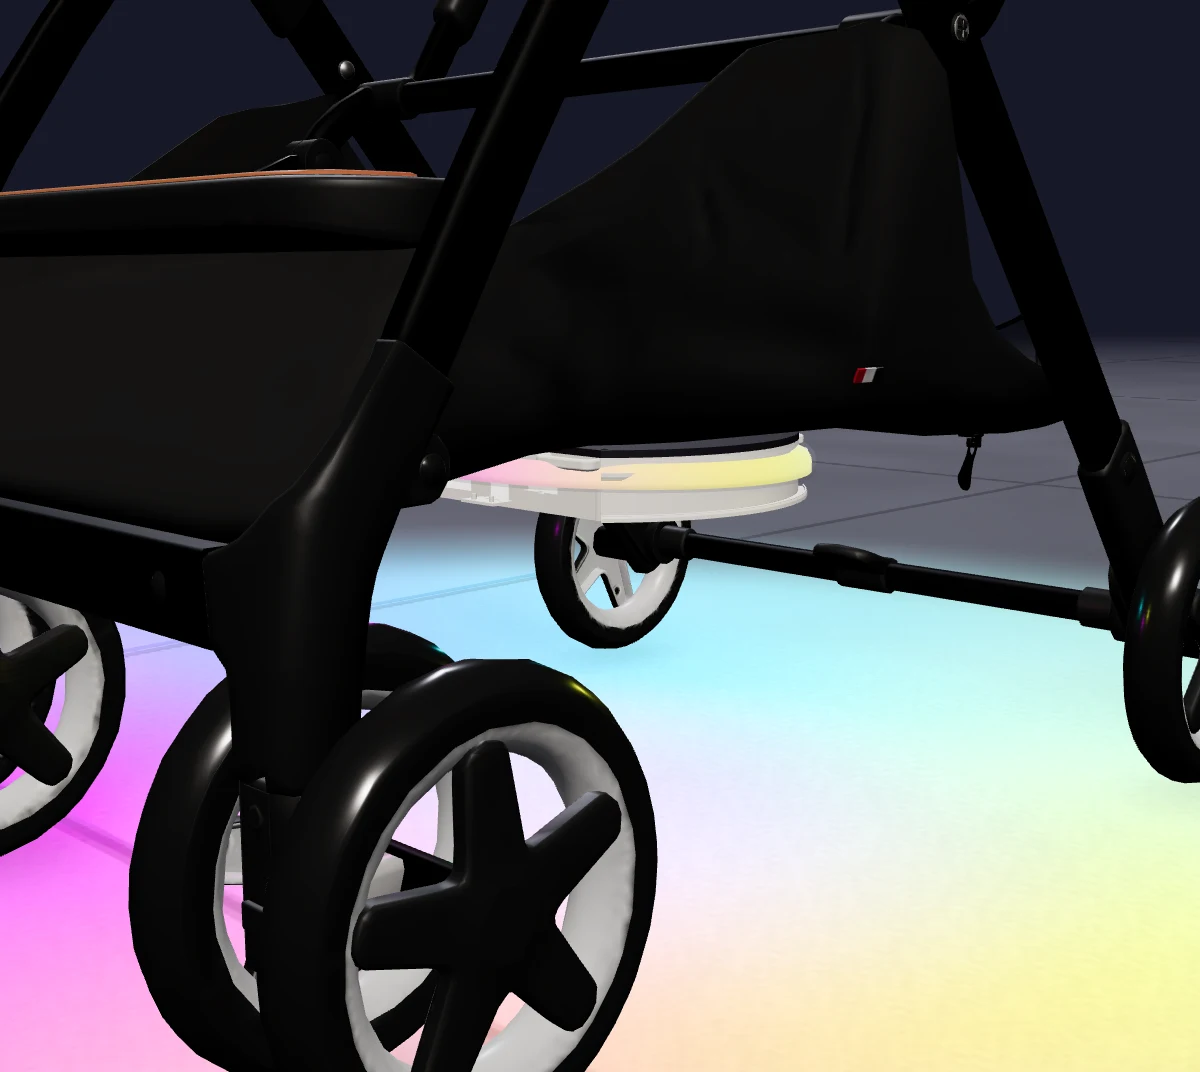
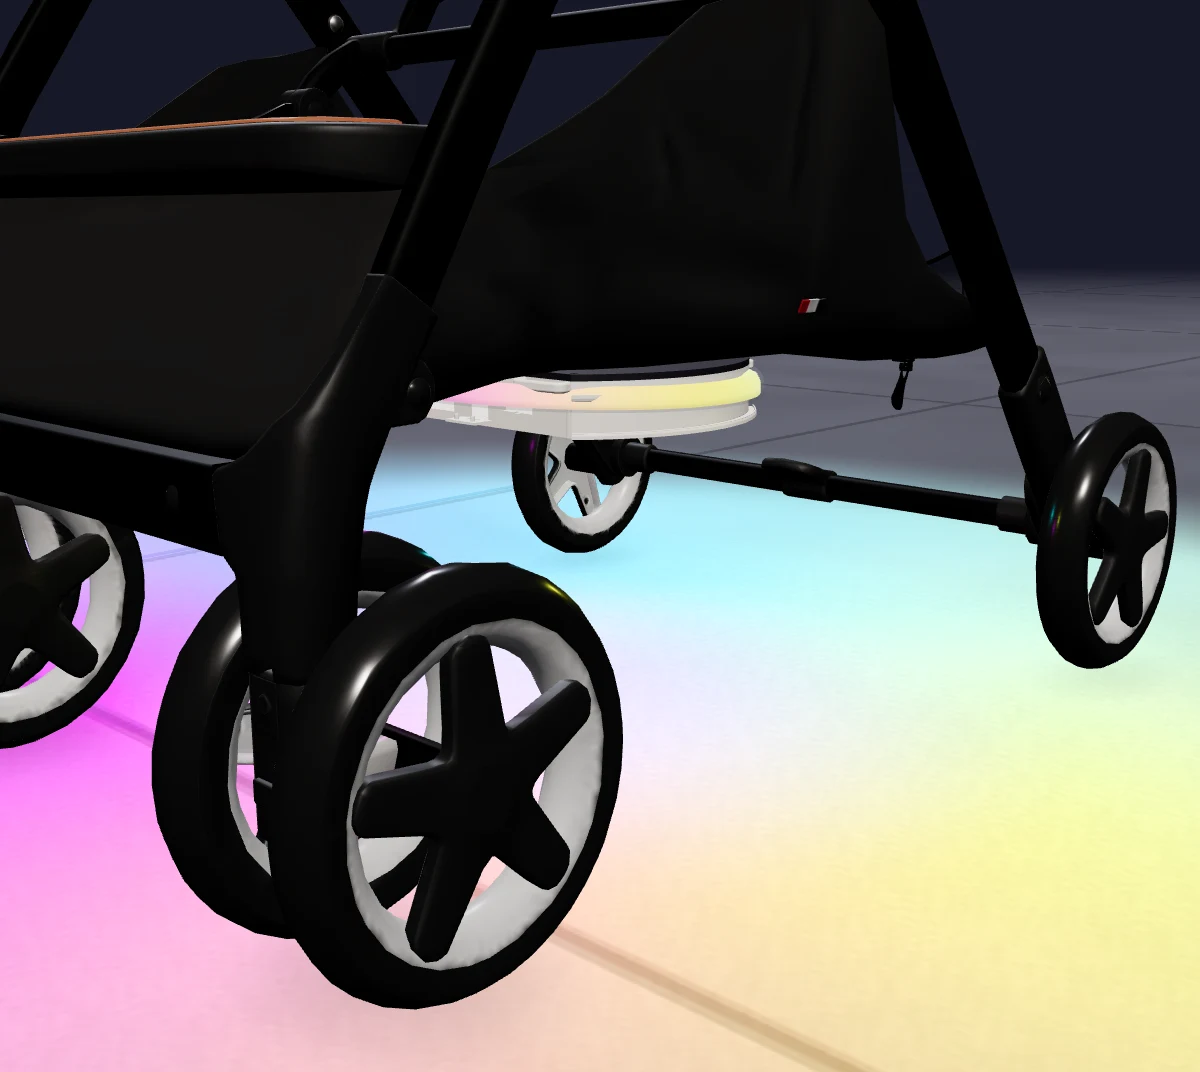
Refine hero wheel breakout framing
Expand the hero render beyond an inset frame, move the controls below the breakout area, and reframe regenerated posters so the wheels remain visible.

diff --git a/src/app/globals.css b/src/app/globals.css
@@ -1,14 +1,16 @@
 @import "tailwindcss";
 
-.interactive-hero { width: 100%; border: 1px solid #ded7ed; border-radius: 2rem; background: #eeeafd; overflow: hidden; box-shadow: 0 24px 70px #5a0fea0c; }
-.interactive-hero-stage { position: relative; aspect-ratio: 1.12; background: #171827; }
+.interactive-hero { --hero-breakout-x: clamp(1.25rem, 5vw, 1.75rem); --hero-breakout-y: clamp(1.1rem, 4.5vw, 1.55rem); --hero-frame-bottom: clamp(2.25rem, 8vw, 2.75rem); position: relative; width: 100%; border: 1px solid #ded7ed; border-radius: 2rem; background: #eeeafd; overflow: visible; box-shadow: 0 24px 70px #5a0fea0c; }
+.interactive-hero-stage { position: relative; z-index: 1; aspect-ratio: 1.12; }
 .interactive-hero-stage, .interactive-hero-stage * { -webkit-user-select: none; user-select: none; -webkit-touch-callout: none; -webkit-tap-highlight-color: transparent; }
+.interactive-hero-render { position: absolute; inset: 0 calc(-1 * var(--hero-breakout-x)) calc(-1 * var(--hero-breakout-y)) 0; overflow: hidden; border-radius: 2rem 2rem 1.5rem .5rem; background: #171827; }
+.interactive-hero-frame { position: absolute; inset: -1px -1px var(--hero-frame-bottom); z-index: 2; border: 1px solid #ded7ed; border-radius: 2rem; pointer-events: none; }
 .interactive-hero-canvas { position: absolute; inset: 0; opacity: 0; pointer-events: none; transition: opacity 650ms ease; }
 .interactive-hero-canvas.is-ready { opacity: 1; cursor: grab; pointer-events: auto; }
 .interactive-hero-canvas.is-ready:active { cursor: grabbing; }
 .interactive-hero-canvas canvas { display: block; width: 100%; height: 100%; }
-.interactive-hero-badge { position: absolute; top: 1.25rem; left: 1.4rem; font-size: .65rem; font-weight: 700; letter-spacing: .09em; text-transform: uppercase; color: #e2d8f6; pointer-events: none; }
-.hero-mode-controls { display: flex; flex-wrap: wrap; justify-content: center; gap: .25rem; padding: .5rem .35rem; }
+.interactive-hero-badge { position: absolute; top: 1.25rem; left: 1.4rem; z-index: 3; font-size: .65rem; font-weight: 700; letter-spacing: .09em; text-transform: uppercase; color: #e2d8f6; pointer-events: none; }
+.hero-mode-controls { position: relative; z-index: 2; display: flex; flex-wrap: wrap; justify-content: center; gap: .25rem; margin-top: var(--hero-breakout-y); padding: .5rem .35rem; }
 .hero-mode-controls button { display: inline-flex; flex: 1; align-items: center; justify-content: center; gap: .3rem; min-height: 44px; padding: .6rem .35rem; border-radius: 999px; border: 1px solid #d6cee4; background: #ffffff80; font-size: .72rem; font-weight: 700; color: #30253e; cursor: pointer; white-space: nowrap; }
 .hero-mode-controls button[aria-pressed="true"] { background: #30203e; border-color: #30203e; color: white; }
 .hero-mode-controls .hero-3d-switch { flex: none; background: transparent; border-color: transparent; }

diff --git a/src/components/home/interactive-hero-media.tsx b/src/components/home/interactive-hero-media.tsx
@@ -136,11 +136,14 @@ export function InteractiveHeroMedia({ sceneAvailable = false }: { sceneAvailabl
   return (
     <figure className="interactive-hero" aria-label="Explore the Glowbaby stroller light concept">
       <div className="interactive-hero-stage" style={{ backgroundColor: heroSceneConfig.environment.background }} onContextMenu={(event) => event.preventDefault()}>
-        <Image src={posters[mode]} alt="Close-up of the Glowbaby prototype beneath a stroller basket, casting colored light across a concrete sidewalk at dusk." fill draggable={false} loading="eager" fetchPriority="high" sizes="(min-width: 1240px) 562px, (min-width: 1024px) calc((100vw - 7rem) / 2), (min-width: 640px) calc(100vw - 4rem), calc(100vw - 2.5rem)" className="object-contain" onLoad={() => {
-          posterLoaded.current = true;
-          void controls.current?.refresh();
-        }} />
-        <div ref={host} className={`interactive-hero-canvas ${ready ? "is-ready" : ""}`} aria-hidden="true" />
+        <div className="interactive-hero-render">
+          <Image src={posters[mode]} alt="Close-up of the Glowbaby prototype beneath a stroller basket, casting colored light across a concrete sidewalk at dusk." fill draggable={false} loading="eager" fetchPriority="high" sizes="(min-width: 1240px) 600px, (min-width: 1024px) calc((100vw - 5rem) / 2), (min-width: 640px) calc(100vw - 2rem), calc(100vw - .75rem)" className="object-contain" onLoad={() => {
+            posterLoaded.current = true;
+            void controls.current?.refresh();
+          }} />
+          <div ref={host} className={`interactive-hero-canvas ${ready ? "is-ready" : ""}`} aria-hidden="true" />
+        </div>
+        <span className="interactive-hero-frame" aria-hidden="true" />
         <span className="interactive-hero-badge">{ready ? "Drag to explore" : "Made for a little more color"}</span>
       </div>
       <div className="hero-mode-controls" role="group" aria-label="Preview a light mode">

diff --git a/src/components/home/hero-scene-config.ts b/src/components/home/hero-scene-config.ts
@@ -139,6 +139,6 @@ export const heroSceneConfig = {
     centerRadius: 0.16,
   },
   // Low three-quarter detail framing; product dimensions and mounting stay unchanged.
-  camera: { position: [0.48, 0.235, 0.56] as [number, number, number], target: [0, 0.12, 0.065] as [number, number, number], fov: 38 },
+  camera: { position: [0.48, 0.235, 0.56] as [number, number, number], target: [0.02, 0.08, 0.065] as [number, number, number], fov: 42 },
   interaction: { yaw: Math.PI / 24, pitch: Math.PI / 90, damping: 5, returnDamping: 3, dragSensitivity: 2 },
 };
